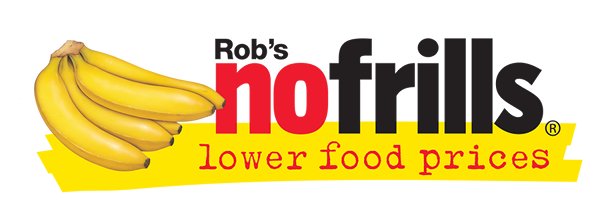
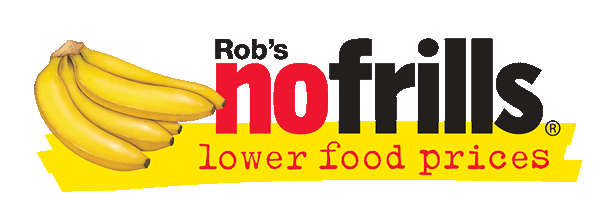
Reduce image file sizes and get calendar page ready

diff --git a/calendar.md b/calendar.md
@@ -3,10 +3,9 @@ layout: default
 title: Calendar
 link: calendar
 ---
-<div class="container-fluid" style="background-color: #30DDCC">
-    <div class="row">
+<div class="container-fluid" style="background-color: #a2aebb; height: 100%;">
+    <div class="row" style="padding-top: 80px">
         <div class="col-12">
-        <p>a</p>
         </div>
     </div>
 </div>
